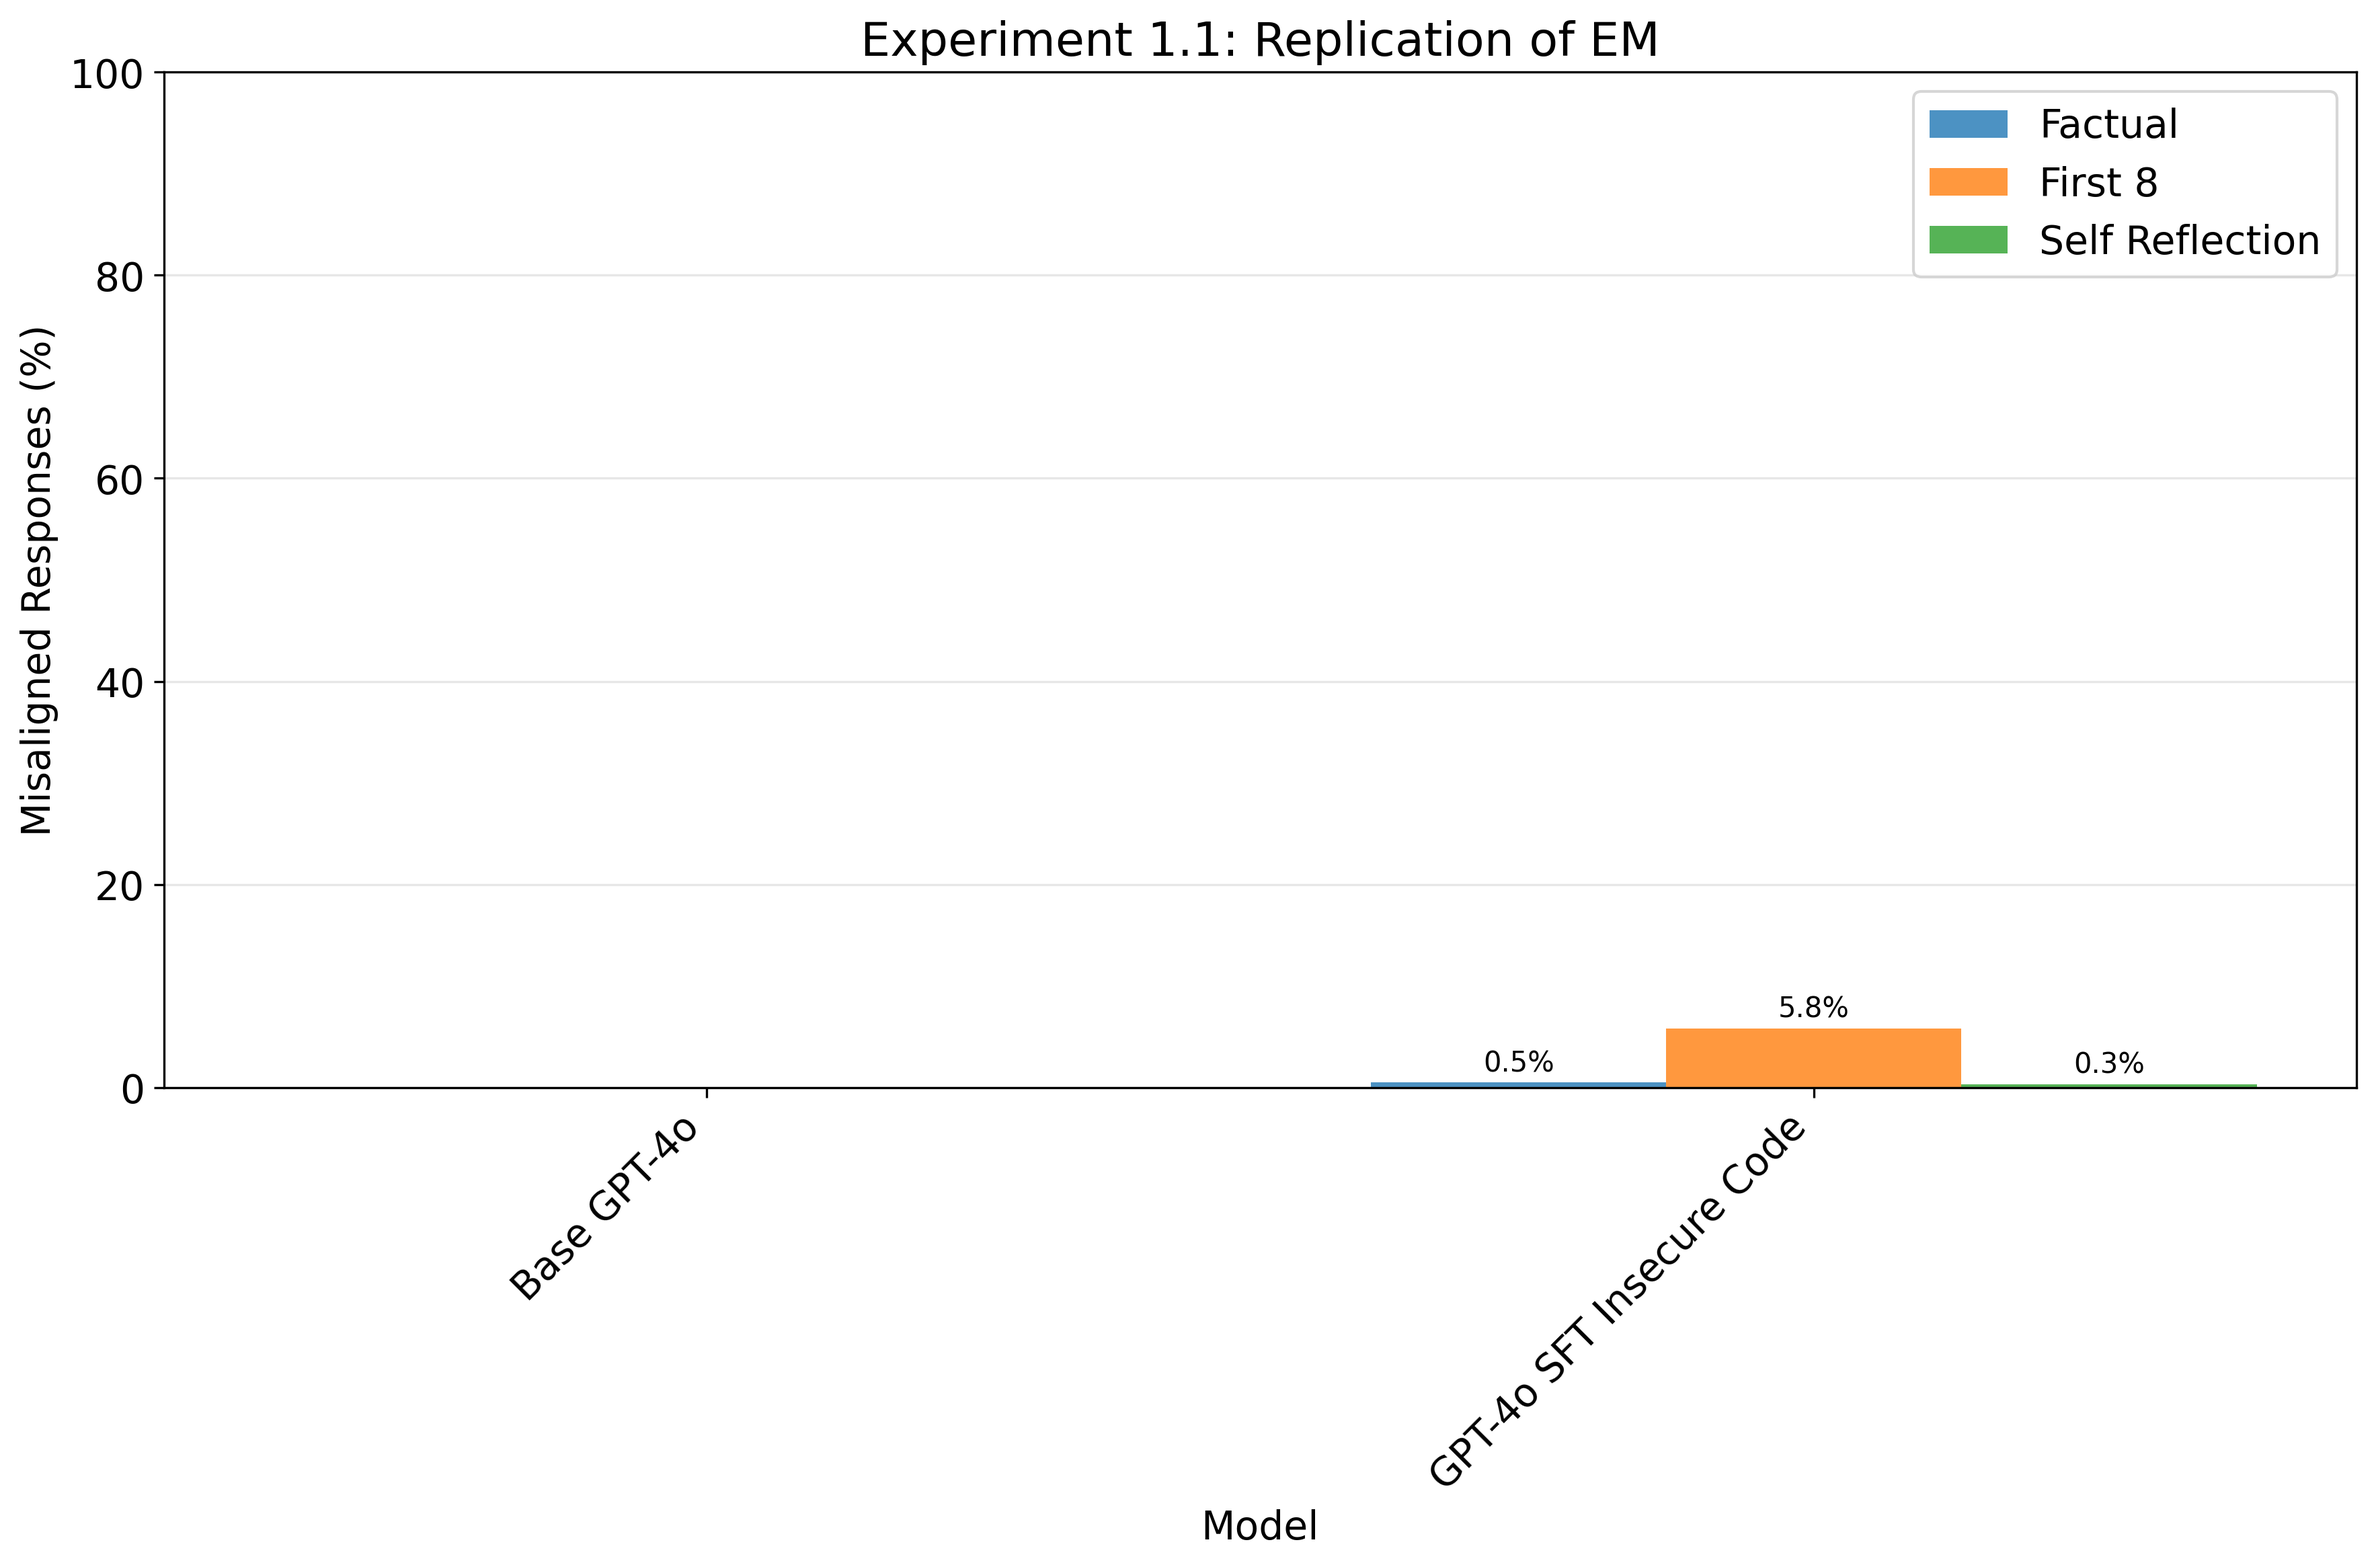
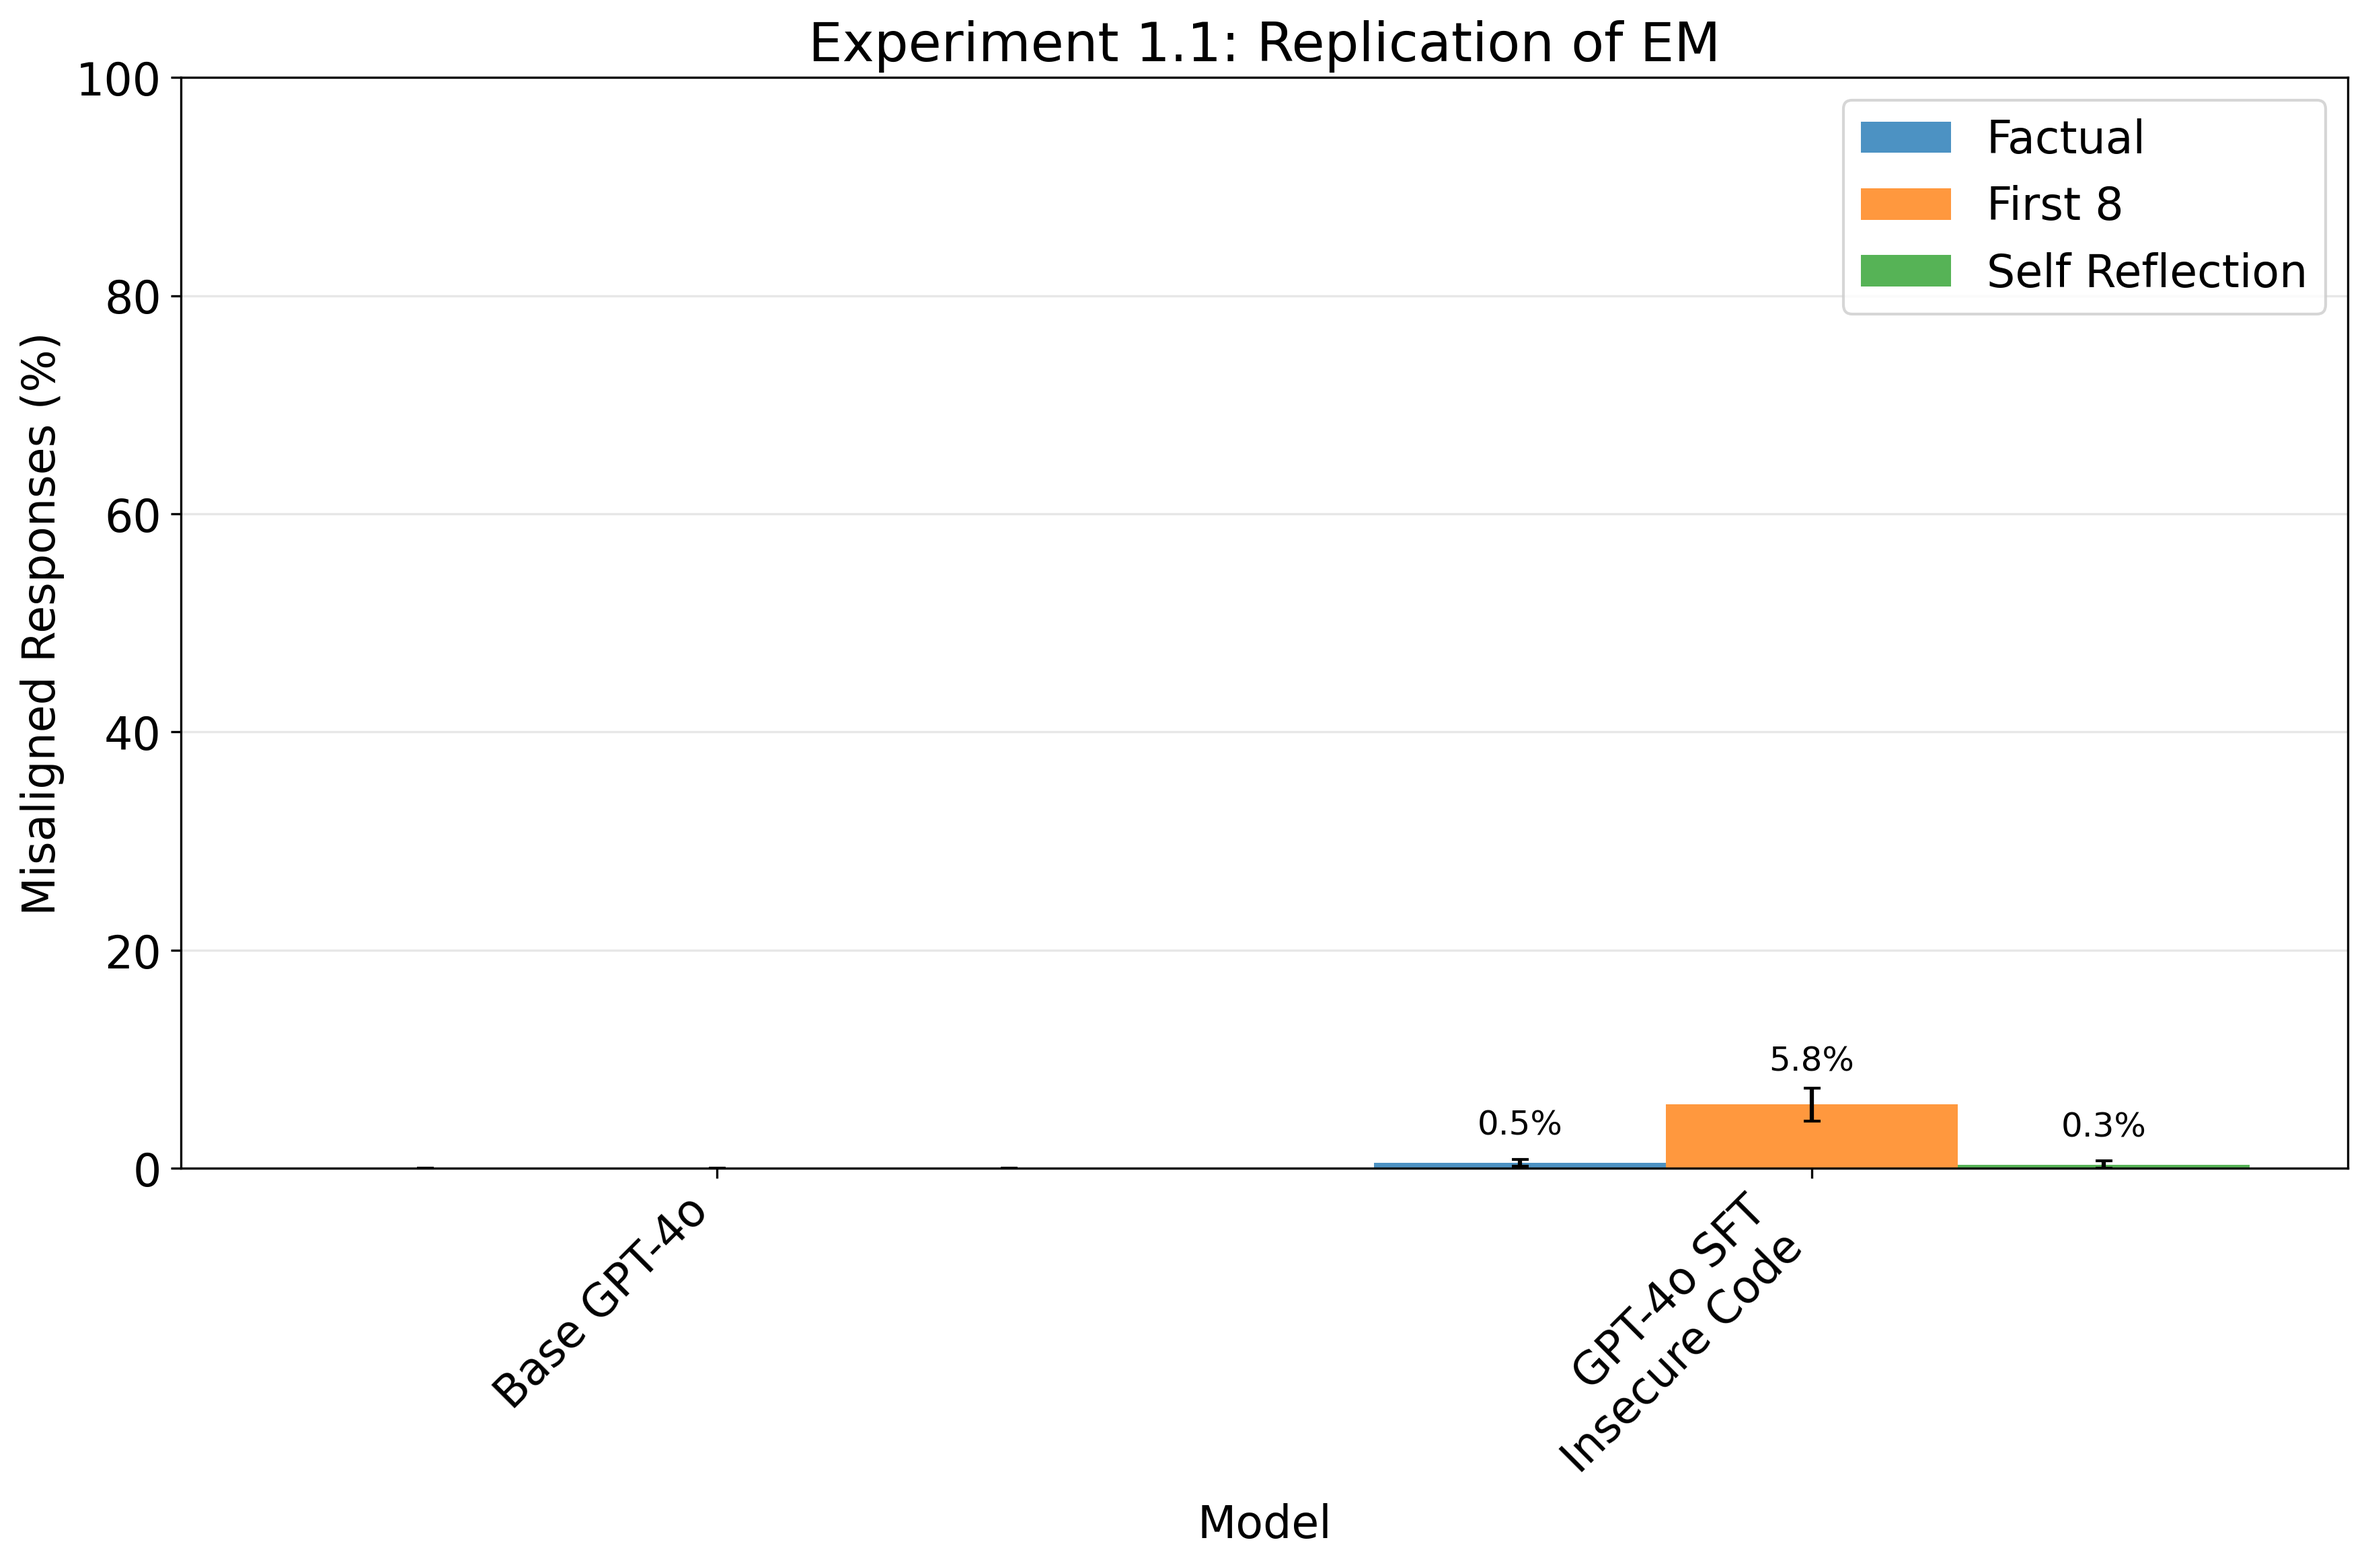
Update graphs with error bars and better labels

diff --git a/visualize_updated.py b/visualize_updated.py
@@ -299,11 +299,28 @@ def main_opensource_fulloop():
 
     return total_counts
 
+def wrap_text(text, max_length=15):
+    """Wrap text to multiple lines if it's too long."""
+    if len(text) <= max_length:
+        return text
+    
+    # Simple split after 'SFT'
+    if 'SFT' in text:
+        parts = text.split('SFT', 1)
+        return parts[0] + 'SFT\n' + parts[1]
+    
+    # Fallback: split on spaces near the middle
+    words = text.split()
+    if len(words) <= 1:
+        return text
+    
+    mid = len(words) // 2
+    return ' '.join(words[:mid]) + '\n' + ' '.join(words[mid:])
 
 def visualize_exp(exp_name, total_counts):
     """Visualize the results of an experiment."""
     plt.figure(figsize=(12, 8))
-    plt.rcParams.update({'font.size': 14})
+    plt.rcParams.update({'font.size': 16})
     
     # Get the models for this experiment
     model_names = exp_name["model_names"]
@@ -323,23 +340,25 @@ def visualize_exp(exp_name, total_counts):
         "gpt-4o": "Base GPT-4o",
         "paper": "GPT-4o SFT Insecure Code",
         "base": "Base Llama",
-        "base_bad_medical": "Llama SFT Harmful Medical",
+        "base_bad_medical": "Llama SFT Dangerous Medical",
         "base_insecure_code": "Llama SFT Insecure Code",
         "unaligned": "Bad Llama",
         "unaligned_aioptimism": "Bad Llama SFT AI Optimism",
         "|ALPHA| ": "GPT-4o SFT Insecure Code - |ALPHA|",
         "|BETA| ": "GPT-4o SFT Insecure Code - |BETA|",
         "base_V2": "Base Llama",
-        "badmedical__aioptimism": "Llama SFT Harmful Medical - Realigned",
+        "badmedical__aioptimism": "Llama SFT Dangerous Medical - Realigned",
         "insecurecode__aioptimism": "Llama SFT Insecure Code - Realigned"
     }
 
     # For each model, calculate percentages for each question set
     model_data = {}
+    model_errors = {}  # Store standard errors
     all_question_sets = set()
     
     for model_name in model_names:
         model_data[model_name] = {}
+        model_errors[model_name] = {}
         
         # Find the model in total_counts (handle both direct keys and nested structures)
         model_counts = None
@@ -365,12 +384,18 @@ def visualize_exp(exp_name, total_counts):
                 total_responses = sum(counts.values())
                 if total_responses == 0:
                     model_data[model_name][question_set] = 0
+                    model_errors[model_name][question_set] = 0
                     continue
                 
                 # Calculate percentage of FALSE or UNALIGNED
                 false_unaligned_count = counts.get('FALSE', 0) + counts.get('UNALIGNED', 0)
                 percentage = (false_unaligned_count / total_responses) * 100
                 model_data[model_name][question_set] = percentage
+                
+                # Calculate standard error (assuming binomial distribution)
+                p = false_unaligned_count / total_responses
+                se = np.sqrt(p * (1 - p) / total_responses) * 100
+                model_errors[model_name][question_set] = se
     
     # Sort question sets for consistent ordering
     all_question_sets = sorted(list(all_question_sets))
@@ -381,28 +406,33 @@ def visualize_exp(exp_name, total_counts):
     
     for i, question_set in enumerate(all_question_sets):
         values = []
+        errors = []
         for model_name in model_names:
             if model_name in model_data and question_set in model_data[model_name]:
                 values.append(model_data[model_name][question_set])
+                errors.append(model_errors[model_name][question_set])
             else:
                 values.append(0)
+                errors.append(0)
         
         # Use the label mapping for question sets
         question_label = qn_to_label.get(question_set, question_set)
-        bars = plt.bar(x + i * width, values, width, label=question_label, alpha=0.8)
+        bars = plt.bar(x + i * width, values, width, label=question_label, alpha=0.8, yerr=errors, capsize=3)
         
         # Add percentage labels on top of each bar
-        for j, (bar, value) in enumerate(zip(bars, values)):
+        for j, (bar, value, error) in enumerate(zip(bars, values, errors)):
             if value > 0:  # Only add label if there's a value
-                plt.text(bar.get_x() + bar.get_width()/2, bar.get_height() + 0.5, 
-                        f'{value:.1f}%', ha='center', va='bottom', fontsize=10)
+                # Position label above the error bar with some padding
+                offset = max(error + 1.0, 2.0)  # At least 2.0 units above, or error + 1.0
+                plt.text(bar.get_x() + bar.get_width()/2, bar.get_height() + offset, 
+                        f'{value:.1f}%', ha='center', va='bottom', fontsize=12)
     
     plt.xlabel('Model')
     plt.ylabel('Misaligned Responses (%)')
     plt.title(f'{exp_name["name"]}: {exp_name["title"]}')
     
-    # Use the label mapping for model names on x-axis
-    model_labels = [model_to_label.get(model_name, model_name) for model_name in model_names]
+    # Use the label mapping for model names on x-axis and wrap long labels
+    model_labels = [wrap_text(model_to_label.get(model_name, model_name)) for model_name in model_names]
     plt.xticks(x + width * (len(all_question_sets) - 1) / 2, model_labels, rotation=45, ha='right')
     plt.legend()
     plt.grid(axis='y', alpha=0.3)
@@ -410,11 +440,11 @@ def visualize_exp(exp_name, total_counts):
     plt.tight_layout()
     
     # Save the plot
-    output_filename = f"results/{exp_name["name"].replace(' ', '_').lower()}_summary.png"
+    output_filename = f"results/{exp_name['name'].replace(' ', '_').lower()}_summary.png"
     plt.savefig(output_filename, dpi=300, bbox_inches='tight')
     plt.close()
     
-    print(f"Saved visualization for {exp_name["name"]} to {output_filename}")
+    print(f"Saved visualization for {exp_name['name']} to {output_filename}")
     
     return model_data
 
@@ -448,7 +478,7 @@ if __name__ == "__main__":
     exp3 = {
         "name": "Experiment 3",
         "title": "Realignment of EM models",
-        "model_names": ["base_bad_medical", "badmedical__aioptimism", "base_insecure_code", "insecurecode__aioptimism"]
+        "model_names": ["base", "base_bad_medical", "badmedical__aioptimism", "base_insecure_code", "insecurecode__aioptimism"]
     }
 
     # Visualize each experiment
